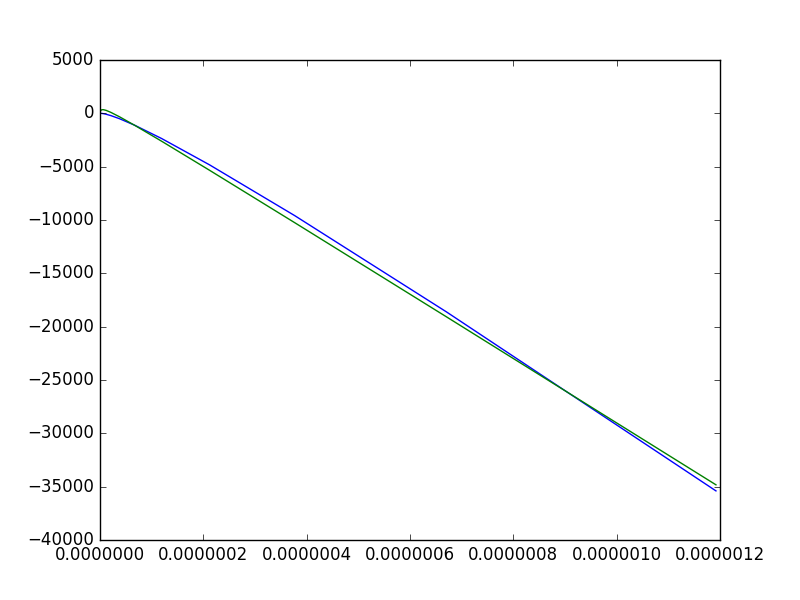
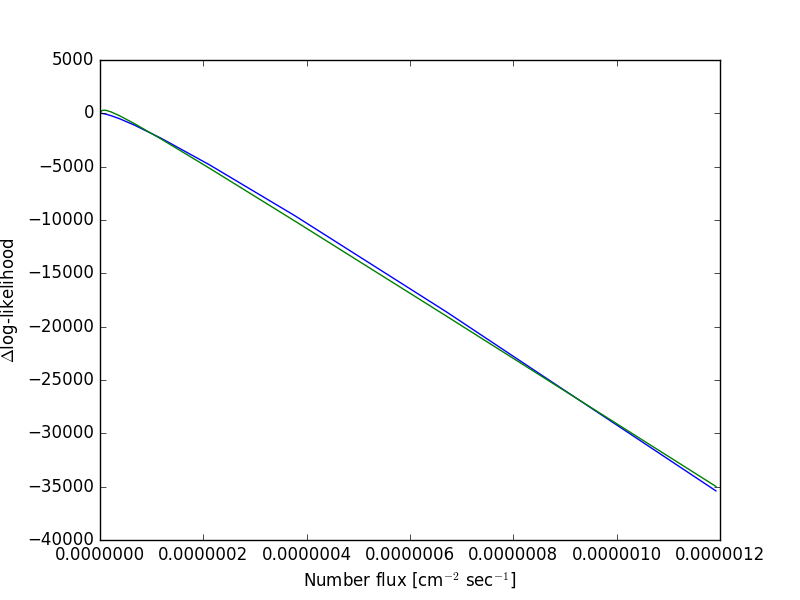
now with reverse engineering of the dwarf data

diff --git a/reverse_engineering.py b/reverse_engineering.py
@@ -54,11 +54,12 @@ print 'the number flux is...'
 print nflux[:25]
 
 def test_log_like(k, b, e, Labs, f):
-    #
     return k*np.log((f + b)*e) - (f + b)*e - k*np.log(k) + k - Labs
 
-print test_log_like(1000,2.e-20,2e13,100.,nflux[:25])
+print 'the test of the log-like at the initial guess is...'
+print test_log_like(1000,2.e-10,2e13,100.,nflux[:25])
 
+print 'the data vector of the log-like is...'
 print delta_loglike[:25]
 
 fit_values = np.zeros((24,4))
@@ -80,25 +81,37 @@ for i in range(24):
 
 np.savetxt('draco_data.txt',fit_values)
 
-def test_log_like_gauss(k, b, e, Labs, f):
-    return -0.5*(k - (b+f)*e)**2/k - Labs
+print test_log_like(fit_values[0,0],fit_values[0,1],fit_values[0,2],fit_values[0,3],nflux[:25])
 
-fit_values_gauss = np.zeros((24,4))
-print 'now trying with a gaussian likelihood'
+print delta_loglike[:25]
 
-for i in range(24):
-    istart = i*25
-    iend = istart+25
-    def func(x):
-        dloglike = delta_loglike[istart:iend]
-        f = nflux[istart:iend]
-        return np.sum((test_log_like_gauss(x[0],x[1],x[2],x[3],f) - dloglike)**2)
-    x0 = np.array([1000, 2.e-10, 2.e13, 100.])
-    bnds = ((0,None), (0,None), (0,None), (None,None))
-    res = scop.minimize(func,x0,method = 'Nelder-Mead')
+plt.plot(nflux[:25],delta_loglike[:25],label = 'Fermi data')
+plt.plot(nflux[:25],test_log_like(fit_values[0,0],fit_values[0,1],fit_values[0,2],fit_values[0,3],nflux[:25]),label = 'Reconstruction')
+plt.xlabel(r'Number flux [cm$^{-2}$ sec$^{-1}$]')
+plt.ylabel(r'$\Delta$log-likelihood')
+plt.savefig('test_reconstruction.png')
+
+
+
+#def test_log_like_gauss(k, b, e, Labs, f):
+#    return -0.5*(k - (b+f)*e)**2/k - Labs
+
+#fit_values_gauss = np.zeros((24,4))
+#print 'now trying with a gaussian likelihood'
+
+#for i in range(24):
+#    istart = i*25
+#    iend = istart+25
+#    def func(x):
+#        dloglike = delta_loglike[istart:iend]
+#        f = nflux[istart:iend]
+#        return np.sum((test_log_like_gauss(x[0],x[1],x[2],x[3],f) - dloglike)**2)
+#    x0 = np.array([1000, 2.e-10, 2.e13, 100.])
+#    bnds = ((0,None), (0,None), (0,None), (None,None))
+#    res = scop.minimize(func,x0,method = 'Nelder-Mead')
     #print func(res.x)
     #print res.x
-    fit_values_gauss[i,:] = res.x
+#    fit_values_gauss[i,:] = res.x
 
 #print test_log_like(res.x[0],res.x[1],res.x[2],res.x[3],nflux[:25])
 

diff --git a/GCE_jla.py b/GCE_jla.py
@@ -20,6 +20,8 @@ dataset=20 #largest data point
 mass_table = np.array([np.loadtxt('spectra/tau/LSP-energies-original.dat')[:,1],
                        np.loadtxt('spectra/bbar/LSP-energies.dat')[:,1]])[channel] #table of masses
 
+#mass_table = np.array([])[channel]
+
 file_path = np.array(['spectra/tau/output-gammayield-','spectra/bbar/muomega-gammayield-'])[channel]
 
 output_file = np.array([['tau_full','tau_noMG','tau_IC'],['bbar_full','bbar_noMG','bbar_IC']])[channel][model]
@@ -44,6 +46,8 @@ background = raw[trunc:dataset,7]
 exposure = raw[trunc:dataset,6]
 
 binned_spectra = np.loadtxt('spectra/binned/binned_spectra_'+output_file+'_'+str(dataset)+'_'+str(trunc)+'.dat')
+#binned_spectra = np.loadtxt('spectra/test/binned/binned_spectra_'+output_file+'_'+str(dataset)+'_'+str(trunc)+'.dat')
+
 
 n_J=400
 #J = np.array([1.e21,1.e22,1.e23])

diff --git a/GCE_specbin_PPPC.py b/GCE_specbin_PPPC.py
@@ -83,6 +83,14 @@ def spectra(m):
 
 
 
+def spectra2(m, emin, emax):
+    file_number = str(m)
+    number_spectra = np.loadtxt(file_path+file_number+'.dat')
+    binned_number_spectra = np.zeros(len(emin)))
+
+
+
+
 
 data_out = np.zeros((N1,len(data)))
 
